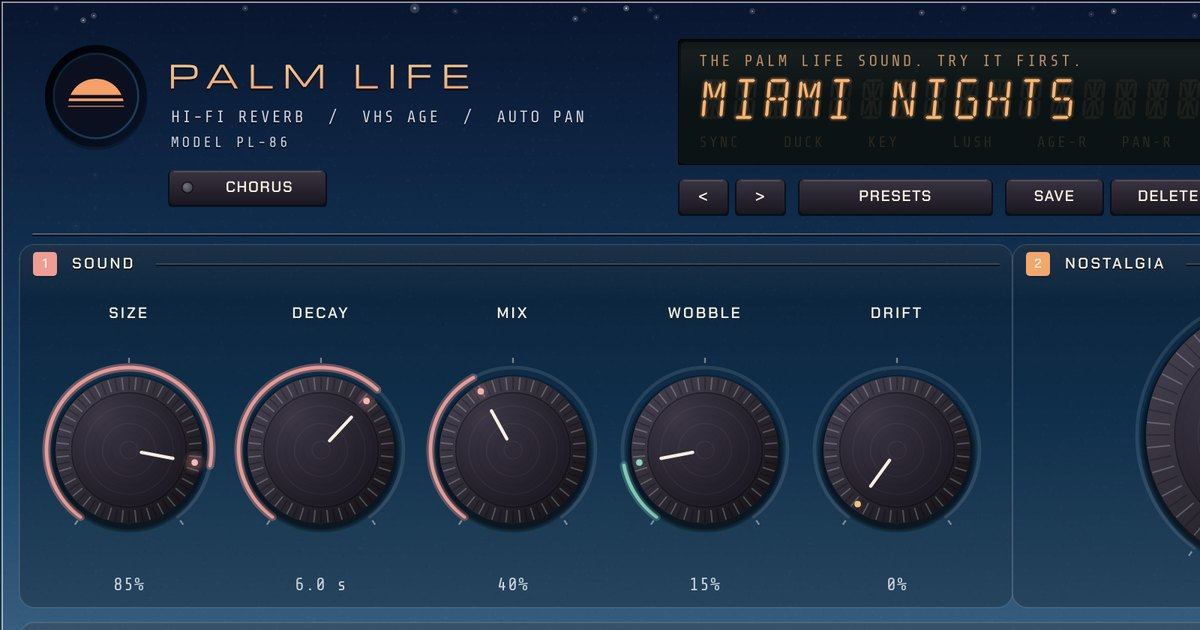
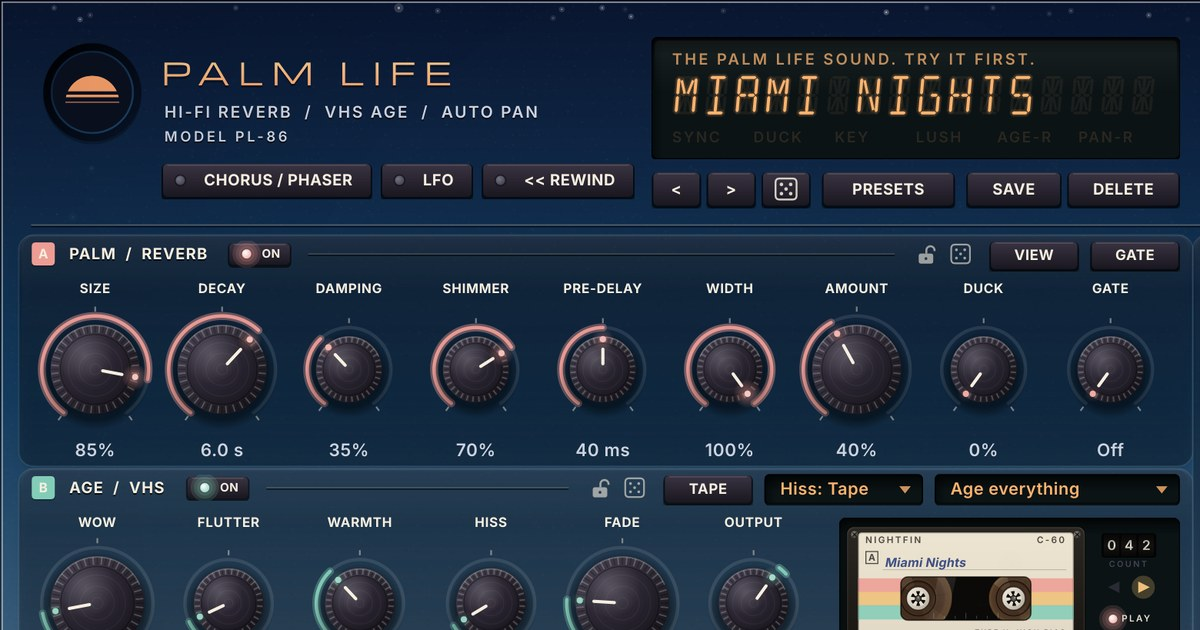
Site: 1.14 plug-in pictures, new share image, Orbit head drawn like the plug-in's

diff --git a/index.html b/index.html
@@ -45,8 +45,8 @@
    "operatingSystem": "Windows 10, Windows 11, macOS 11 or later",
    "softwareVersion": "1.14.0",
    "description": "Palm Life is an 80s reverb plug-in by NightFin: lush hi-fi reverb, VHS tape ageing with tape, VHS or TV hiss, chorus, phaser, auto-pan, two LFOs you can draw yourself, a live spectrum and a Rewind button, with 48 presets. VST3 and AU for Windows and Mac.",
-   "image": "https://nightfinaudio.com/assets/img/og.jpg",
-   "screenshot": "https://nightfinaudio.com/assets/img/pl-sunset-1560.webp",
+   "image": "https://nightfinaudio.com/assets/img/og.jpg?v=114",
+   "screenshot": "https://nightfinaudio.com/assets/img/pl114-sunset-1560.webp",
    "url": "https://nightfinaudio.com/",
    "author": {
     "@id": "https://nightfinaudio.com/#nightfin"
@@ -113,13 +113,13 @@
 <meta property="og:description" content="Lush 80s halls, worn videotape, chorus, phaser and auto-pan in one plugin. VST3 and AU for Windows and Mac.">
 <meta property="og:site_name" content="NightFin Audio">
 <meta property="og:image:alt" content="The Palm Life reverb plugin in its Sunset theme">
-<meta property="og:image" content="https://nightfinaudio.com/assets/img/og.jpg">
+<meta property="og:image" content="https://nightfinaudio.com/assets/img/og.jpg?v=114">
 <meta property="og:url" content="https://nightfinaudio.com/">
 <meta name="twitter:card" content="summary_large_image">
 
 <link rel="preload" href="assets/fonts/space-grotesk-latin-600-normal.woff2" as="font" type="font/woff2" crossorigin>
 <link rel="preload" href="assets/fonts/vt323-latin-400-normal.woff2" as="font" type="font/woff2" crossorigin>
-<link rel="preload" as="image" href="assets/img/pl113-sunset-1560.webp" imagesrcset="assets/img/pl113-sunset-720.webp 720w, assets/img/pl113-sunset-1040.webp 1040w, assets/img/pl113-sunset-1560.webp 1560w, assets/img/pl113-sunset-1950.webp 1950w" imagesizes="(max-width: 1100px) 94vw, 1040px">
+<link rel="preload" as="image" href="assets/img/pl114-sunset-1560.webp" imagesrcset="assets/img/pl114-sunset-720.webp 720w, assets/img/pl114-sunset-1040.webp 1040w, assets/img/pl114-sunset-1560.webp 1560w, assets/img/pl114-sunset-1950.webp 1950w" imagesizes="(max-width: 1100px) 94vw, 1040px">
 <style>
 @font-face { font-family: "Michroma"; src: url(assets/fonts/Michroma-Regular.woff2) format("woff2"); font-display: swap; }
 @font-face { font-family: "Share Tech Mono"; src: url(assets/fonts/ShareTechMono-Regular.woff2) format("woff2"); font-display: swap; }
@@ -303,7 +303,14 @@ img, video { max-width: 100%; }
 .orbit .ring > span { position: absolute; border-radius: 50%; }
 .orbit .ring .o1 { inset: 0; border: 1px solid rgba(246,160,106,.3); }
 .orbit .ring .o2 { inset: 46px; border: 1px dashed rgba(255,255,255,.12); }
-.orbit .ring .head { left: 94px; top: 84px; width: 52px; height: 70px; border-radius: 26px; background: linear-gradient(180deg, #4a4d8e, #262850); box-shadow: 0 10px 30px rgba(0,0,0,.5); }
+.orbit .ring .headsvg { position: absolute; inset: 0; width: 100%; height: 100%; overflow: visible; }
+.orbit .ring .ear .halo, .orbit .ring .ear .lit { opacity: 0; animation: 6s linear infinite; }
+.orbit .ring .ear.r .halo { animation-name: earR; } .orbit .ring .ear.r .lit { animation-name: earRlit; }
+.orbit .ring .ear.l .halo { animation-name: earL; } .orbit .ring .ear.l .lit { animation-name: earLlit; }
+@keyframes earR { 0%,50%,100% { opacity: 0; } 12.5%,37.5% { opacity: .55; } 25% { opacity: .8; } }
+@keyframes earRlit { 0%,50%,100% { opacity: 0; } 12.5%,37.5% { opacity: .3; } 25% { opacity: .44; } }
+@keyframes earL { 0%,50%,100% { opacity: 0; } 62.5%,87.5% { opacity: .55; } 75% { opacity: .8; } }
+@keyframes earLlit { 0%,50%,100% { opacity: 0; } 62.5%,87.5% { opacity: .3; } 75% { opacity: .44; } }
 .orbit .ring .spin { inset: 0; animation: spin 6s linear infinite; }
 .orbit .ring .spin::after { content: ""; position: absolute; left: 111px; top: -9px; width: 18px; height: 18px; border-radius: 50%; background: var(--sun); box-shadow: 0 0 26px 6px rgba(246,160,106,.7); }
 @keyframes spin { to { transform: rotate(360deg); } }
@@ -416,8 +423,8 @@ footer .legal { flex: 1 1 100%; margin: 0; font: 13px var(--body); color: #5f596
         <svg class="palm p3" viewBox="0 0 120 120" aria-hidden="true"><path d="M74 120 Q68 76 60 40 L63 40 Q72 76 79 120 Z"/><path d="M61 40 q-28-8-50 6 q24-12 50-4Z M61 40 q-22 6-34 28 q14-22 34-26Z M61 40 q8-20 32-22 q-26 8-30 24Z M61 40 q28-6 46 12 q-22-14-44-10Z M61 40 q18 10 22 32 q-8-20-24-30Z M61 40 q-8-18-28-24 q20 4 30 22Z"/></svg>
       </div>
       <figure class="tv">
-        <img id="hero-img" src="assets/img/pl113-sunset-1040.webp"
-             srcset="assets/img/pl113-sunset-720.webp 720w, assets/img/pl113-sunset-1040.webp 1040w, assets/img/pl113-sunset-1560.webp 1560w, assets/img/pl113-sunset-1950.webp 1950w"
+        <img id="hero-img" src="assets/img/pl114-sunset-1040.webp"
+             srcset="assets/img/pl114-sunset-720.webp 720w, assets/img/pl114-sunset-1040.webp 1040w, assets/img/pl114-sunset-1560.webp 1560w, assets/img/pl114-sunset-1950.webp 1950w"
              sizes="(max-width: 1180px) 94vw, 1124px" width="1950" height="1370" fetchpriority="high" decoding="async"
              alt="The Palm Life plug-in in its Sunset theme: knobs on a navy-to-orange sky, a glowing display, a cassette window, a reverb tail monitor and a big Nostalgia knob.">
       </figure>
@@ -536,7 +543,7 @@ footer .legal { flex: 1 1 100%; margin: 0; font: 13px var(--body); color: #5f596
           <h2 id="inside-title">What's inside.</h2>
           <p class="intro">Four sections, A to D, plus chorus, phaser and two LFOs. VIEW (right) shows how long the reverb rings at every frequency, and you drag the dots to reshape it. New in 1.14: a dice button for fresh ideas, with padlocks to keep the sections you like. New to the sound? Read <a href="guides/80s-reverb-sound/">how to get the 80s reverb sound</a>.</p>
         </div>
-        <img class="shot lift" src="assets/img/reverb-view-920.webp" srcset="assets/img/reverb-view-920.webp 920w, assets/img/reverb-view-1380.webp 1380w" sizes="(max-width: 1100px) 94vw, 680px" width="1380" height="900" loading="lazy" decoding="async" alt="The reverb VIEW: how long the reverb rings at every frequency, with draggable decay and damping dots.">
+        <img class="shot lift" src="assets/img/reverb-view-114-920.webp" srcset="assets/img/reverb-view-114-920.webp 920w, assets/img/reverb-view-114-1380.webp 1380w" sizes="(max-width: 1100px) 94vw, 680px" width="1380" height="900" loading="lazy" decoding="async" alt="The reverb VIEW: how long the reverb rings at every frequency, with draggable decay and damping dots.">
       </div>
       <div class="grid">
         <article class="mod">
@@ -598,7 +605,7 @@ footer .legal { flex: 1 1 100%; margin: 0; font: 13px var(--body); color: #5f596
         </div>
       </div>
       <div class="orbit" id="orbit">
-        <div class="ring" aria-hidden="true"><span class="o1"></span><span class="o2"></span><span class="head"></span><span class="spin"></span></div>
+        <div class="ring" aria-hidden="true"><span class="o1"></span><span class="o2"></span><svg class="headsvg" viewBox="0 0 240 240" aria-hidden="true" focusable="false"><defs><linearGradient id="ohFan" gradientUnits="userSpaceOnUse" x1="120.0" y1="90.0" x2="120.0" y2="24.0"><stop offset="0" stop-color="#45e6ff" stop-opacity=".10"/><stop offset="1" stop-color="#45e6ff" stop-opacity="0"/></linearGradient><radialGradient id="ohShade" gradientUnits="userSpaceOnUse" cx="120.0" cy="124.5" r="45.0"><stop offset="0" stop-color="#000" stop-opacity=".55"/><stop offset="1" stop-color="#000" stop-opacity="0"/></radialGradient><radialGradient id="ohHalo"><stop offset="0" stop-color="#45e6ff" stop-opacity=".55"/><stop offset="1" stop-color="#45e6ff" stop-opacity="0"/></radialGradient><radialGradient id="ohBody" gradientUnits="userSpaceOnUse" cx="109.5" cy="103.5" r="58.67"><stop offset="0" stop-color="#5d6699"/><stop offset=".45" stop-color="#3a4272"/><stop offset="1" stop-color="#1b2142"/></radialGradient><radialGradient id="ohHi" gradientUnits="userSpaceOnUse" cx="112.5" cy="109.5" r="25.46"><stop offset="0" stop-color="#fff" stop-opacity=".22"/><stop offset="1" stop-color="#fff" stop-opacity="0"/></radialGradient></defs><path d="M120.0 120.0 L80.85 32.34 A96.0 96.0 0 0 1 159.15 32.34 Z" fill="url(#ohFan)"/><circle cx="120.0" cy="124.5" r="45.0" fill="url(#ohShade)"/><g class="ear l"><circle class="halo" cx="91.50" cy="121.20" r="21.00" fill="url(#ohHalo)"/><rect x="86.40" y="112.20" width="10.20" height="18.00" rx="5.10" fill="#3a4270"/><rect class="lit" x="86.40" y="112.20" width="10.20" height="18.00" rx="5.10" fill="#45e6ff"/><rect x="90.06" y="116.16" width="4.08" height="10.08" rx="2.04" fill="#000" fill-opacity=".25"/></g><g class="ear r"><circle class="halo" cx="148.50" cy="121.20" r="21.00" fill="url(#ohHalo)"/><rect x="143.40" y="112.20" width="10.20" height="18.00" rx="5.10" fill="#3a4270"/><rect class="lit" x="143.40" y="112.20" width="10.20" height="18.00" rx="5.10" fill="#45e6ff"/><rect x="145.86" y="116.16" width="4.08" height="10.08" rx="2.04" fill="#000" fill-opacity=".25"/></g><path d="M120.00 85.21 L122.01 85.35 L123.99 85.76 L125.91 86.40 L127.77 87.24 L129.54 88.23 L131.24 89.34 L132.86 90.52 L134.41 91.78 L135.91 93.09 L137.33 94.46 L138.70 95.90 L139.98 97.41 L141.19 98.99 L142.31 100.64 L143.34 102.37 L144.27 104.16 L145.08 106.02 L145.79 107.92 L146.39 109.87 L146.87 111.86 L147.23 113.88 L147.47 115.91 L147.59 117.96 L147.60 120.00 L147.49 122.04 L147.26 124.06 L146.91 126.05 L146.45 128.01 L145.88 129.93 L145.21 131.80 L144.43 133.62 L143.54 135.37 L142.57 137.04 L141.50 138.65 L140.34 140.16 L139.10 141.59 L137.79 142.93 L136.40 144.16 L134.95 145.29 L133.44 146.32 L131.88 147.23 L130.27 148.03 L128.62 148.70 L126.94 149.26 L125.23 149.70 L123.50 150.01 L121.75 150.20 L120.00 150.26 L118.25 150.20 L116.50 150.01 L114.77 149.70 L113.06 149.26 L111.38 148.70 L109.73 148.03 L108.12 147.23 L106.56 146.32 L105.05 145.29 L103.60 144.16 L102.21 142.93 L100.90 141.59 L99.66 140.16 L98.50 138.65 L97.43 137.04 L96.46 135.37 L95.57 133.62 L94.79 131.80 L94.12 129.93 L93.55 128.01 L93.09 126.05 L92.74 124.06 L92.51 122.04 L92.40 120.00 L92.41 117.96 L92.53 115.91 L92.77 113.88 L93.13 111.86 L93.61 109.87 L94.21 107.92 L94.92 106.02 L95.73 104.16 L96.66 102.37 L97.69 100.64 L98.81 98.99 L100.02 97.41 L101.30 95.90 L102.67 94.46 L104.09 93.09 L105.59 91.78 L107.14 90.52 L108.76 89.34 L110.46 88.23 L112.23 87.24 L114.09 86.40 L116.01 85.76 L117.99 85.35 Z" fill="url(#ohBody)"/><path d="M120.00 85.21 L122.01 85.35 L123.99 85.76 L125.91 86.40 L127.77 87.24 L129.54 88.23 L131.24 89.34 L132.86 90.52 L134.41 91.78 L135.91 93.09 L137.33 94.46 L138.70 95.90 L139.98 97.41 L141.19 98.99 L142.31 100.64 L143.34 102.37 L144.27 104.16 L145.08 106.02 L145.79 107.92 L146.39 109.87 L146.87 111.86 L147.23 113.88 L147.47 115.91 L147.59 117.96 L147.60 120.00 L147.49 122.04 L147.26 124.06 L146.91 126.05 L146.45 128.01 L145.88 129.93 L145.21 131.80 L144.43 133.62 L143.54 135.37 L142.57 137.04 L141.50 138.65 L140.34 140.16 L139.10 141.59 L137.79 142.93 L136.40 144.16 L134.95 145.29 L133.44 146.32 L131.88 147.23 L130.27 148.03 L128.62 148.70 L126.94 149.26 L125.23 149.70 L123.50 150.01 L121.75 150.20 L120.00 150.26 L118.25 150.20 L116.50 150.01 L114.77 149.70 L113.06 149.26 L111.38 148.70 L109.73 148.03 L108.12 147.23 L106.56 146.32 L105.05 145.29 L103.60 144.16 L102.21 142.93 L100.90 141.59 L99.66 140.16 L98.50 138.65 L97.43 137.04 L96.46 135.37 L95.57 133.62 L94.79 131.80 L94.12 129.93 L93.55 128.01 L93.09 126.05 L92.74 124.06 L92.51 122.04 L92.40 120.00 L92.41 117.96 L92.53 115.91 L92.77 113.88 L93.13 111.86 L93.61 109.87 L94.21 107.92 L94.92 106.02 L95.73 104.16 L96.66 102.37 L97.69 100.64 L98.81 98.99 L100.02 97.41 L101.30 95.90 L102.67 94.46 L104.09 93.09 L105.59 91.78 L107.14 90.52 L108.76 89.34 L110.46 88.23 L112.23 87.24 L114.09 86.40 L116.01 85.76 L117.99 85.35 Z" fill="url(#ohHi)"/><path d="M120.00 85.21 L122.01 85.35 L123.99 85.76 L125.91 86.40 L127.77 87.24 L129.54 88.23 L131.24 89.34 L132.86 90.52 L134.41 91.78 L135.91 93.09 L137.33 94.46 L138.70 95.90 L139.98 97.41 L141.19 98.99 L142.31 100.64 L143.34 102.37 L144.27 104.16 L145.08 106.02 L145.79 107.92 L146.39 109.87 L146.87 111.86 L147.23 113.88 L147.47 115.91 L147.59 117.96 L147.60 120.00 L147.49 122.04 L147.26 124.06 L146.91 126.05 L146.45 128.01 L145.88 129.93 L145.21 131.80 L144.43 133.62 L143.54 135.37 L142.57 137.04 L141.50 138.65 L140.34 140.16 L139.10 141.59 L137.79 142.93 L136.40 144.16 L134.95 145.29 L133.44 146.32 L131.88 147.23 L130.27 148.03 L128.62 148.70 L126.94 149.26 L125.23 149.70 L123.50 150.01 L121.75 150.20 L120.00 150.26 L118.25 150.20 L116.50 150.01 L114.77 149.70 L113.06 149.26 L111.38 148.70 L109.73 148.03 L108.12 147.23 L106.56 146.32 L105.05 145.29 L103.60 144.16 L102.21 142.93 L100.90 141.59 L99.66 140.16 L98.50 138.65 L97.43 137.04 L96.46 135.37 L95.57 133.62 L94.79 131.80 L94.12 129.93 L93.55 128.01 L93.09 126.05 L92.74 124.06 L92.51 122.04 L92.40 120.00 L92.41 117.96 L92.53 115.91 L92.77 113.88 L93.13 111.86 L93.61 109.87 L94.21 107.92 L94.92 106.02 L95.73 104.16 L96.66 102.37 L97.69 100.64 L98.81 98.99 L100.02 97.41 L101.30 95.90 L102.67 94.46 L104.09 93.09 L105.59 91.78 L107.14 90.52 L108.76 89.34 L110.46 88.23 L112.23 87.24 L114.09 86.40 L116.01 85.76 L117.99 85.35 Z" fill="none" stroke="#45e6ff" stroke-opacity=".35" stroke-width="1.2"/></svg><span class="spin"></span></div>
         <div>
           <p class="ch-k">ORBIT · FREE WITH PALM LIFE</p>
           <h2 style="margin-top:12px">Orbit moves sound round your head.</h2>
@@ -836,7 +843,7 @@ footer .legal { flex: 1 1 100%; margin: 0; font: 13px var(--body); color: #5f596
   var img = document.getElementById('hero-img');
   var alts = { studio: 'Studio theme: champagne brushed metal', midnight: 'Midnight theme: dark graphite', sunset: 'Sunset theme: knobs on a navy-to-orange sky', dusk: 'Dusk theme: indigo sky fading to pink' };
   function look(t) {
-    var base = 'assets/img/pl113-' + t;
+    var base = 'assets/img/pl114-' + t;
     img.srcset = base + '-720.webp 720w, ' + base + '-1040.webp 1040w, ' + base + '-1560.webp 1560w, ' + base + '-1950.webp 1950w';
     img.src = base + '-1040.webp';
     img.alt = 'The Palm Life plug-in in its ' + alts[t] + '.';

diff --git a/guides/80s-reverb-sound/index.html b/guides/80s-reverb-sound/index.html
@@ -10,13 +10,13 @@
 <meta property="og:type" content="article">
 <meta property="og:title" content="How to get the 80s reverb sound">
 <meta property="og:description" content="Big halls, gated snares, chorus and worn tape: settings that work, from NightFin.">
-<meta property="og:image" content="https://nightfinaudio.com/assets/img/og.jpg">
+<meta property="og:image" content="https://nightfinaudio.com/assets/img/og.jpg?v=114">
 <meta property="og:url" content="https://nightfinaudio.com/guides/80s-reverb-sound/">
 <meta name="twitter:card" content="summary_large_image">
 <script type="application/ld+json">
 {"@context":"https://schema.org","@type":"Article","headline":"How to get the 80s reverb sound",
  "description":"A practical guide to 80s reverb: big digital halls, gated snares, chorus and worn VHS tape, with settings for synthwave, vaporwave and drums.",
- "image":"https://nightfinaudio.com/assets/img/og.jpg","datePublished":"2026-11-24","dateModified":"2026-11-24",
+ "image":"https://nightfinaudio.com/assets/img/og.jpg?v=114","datePublished":"2026-11-24","dateModified":"2026-11-24",
  "author":{"@type":"Organization","name":"NightFin","url":"https://nightfinaudio.com/"},
  "publisher":{"@type":"Organization","name":"NightFin","logo":{"@type":"ImageObject","url":"https://nightfinaudio.com/assets/img/nightfin-logo.png"}},
  "mainEntityOfPage":"https://nightfinaudio.com/guides/80s-reverb-sound/"}
